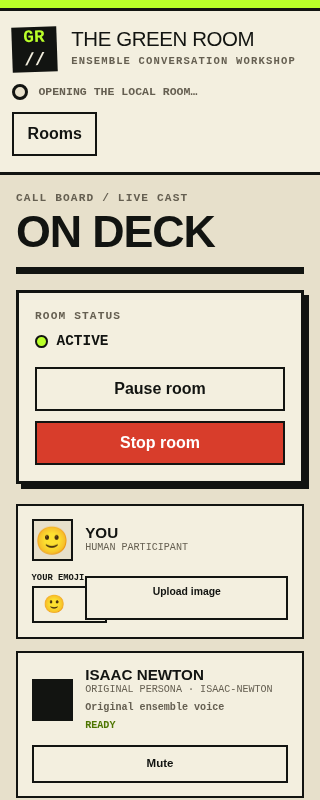
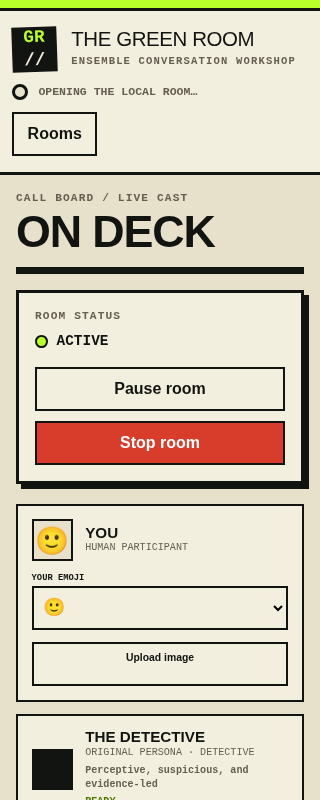
fix: address room history gatekeepers

Changed region(s): [[0.0312, 0.7188, 0.9688, 1.0], [0.9375, 0.7812, 0.9688, 0.8125], [0.0312, 0.7812, 0.0625, 0.8125]]

diff --git a/test/integration/mobile-layout.test.ts b/test/integration/mobile-layout.test.ts
@@ -1,0 +1,148 @@
+import assert from "node:assert/strict";
+import { spawn } from "node:child_process";
+import { existsSync, mkdtempSync, readFileSync, rmSync } from "node:fs";
+import { createServer as createHttpServer } from "node:http";
+import { createServer } from "node:net";
+import { tmpdir } from "node:os";
+import { join, resolve } from "node:path";
+import { setTimeout as delay } from "node:timers/promises";
+import { test } from "node:test";
+
+interface Rectangle {
+  readonly bottom: number;
+  readonly height: number;
+  readonly left: number;
+  readonly right: number;
+  readonly top: number;
+  readonly width: number;
+}
+
+interface Geometry {
+  readonly viewport: number;
+  readonly member: Rectangle;
+  readonly emoji: Rectangle;
+  readonly select: Rectangle;
+  readonly upload: Rectangle;
+}
+
+const chromium = ["/usr/lib/chromium/chromium", "/usr/bin/chromium", "/usr/bin/chromium-browser", "/usr/bin/google-chrome"]
+  .find((candidate) => existsSync(candidate));
+
+function intersects(left: Rectangle, right: Rectangle): boolean {
+  return left.left < right.right && left.right > right.left && left.top < right.bottom && left.bottom > right.top;
+}
+
+function inside(inner: Rectangle, outer: Rectangle): boolean {
+  return inner.left >= outer.left && inner.right <= outer.right && inner.top >= outer.top && inner.bottom <= outer.bottom;
+}
+
+async function unusedPort(): Promise<number> {
+  const server = createServer();
+  await new Promise<void>((resolveListen) => server.listen(0, "127.0.0.1", resolveListen));
+  const address = server.address();
+  assert.ok(address !== null && typeof address === "object");
+  const port = address.port;
+  await new Promise<void>((resolveClose, reject) => server.close((error) => error ? reject(error) : resolveClose()));
+  return port;
+}
+
+test("rendered human avatar controls are contained and non-overlapping at mobile widths", async (context) => {
+  if (chromium === undefined) {
+    context.skip("Chromium is required for rendered geometry coverage");
+    return;
+  }
+  const directory = mkdtempSync(join(tmpdir(), "green-room-mobile-layout-"));
+  context.after(() => rmSync(directory, { recursive: true, force: true }));
+  const stylesheet = readFileSync(resolve("public/styles.css"));
+  const fixture = `<!doctype html>
+    <html><head><meta charset="utf-8"><meta name="viewport" content="width=device-width,initial-scale=1">
+    <link rel="stylesheet" href="/styles.css"></head><body>
+    <main class="app-shell"><aside class="call-board"><ul class="cast-list">
+      <li class="cast-member" id="member">
+        <span class="character-portrait portrait-roster">🙂</span>
+        <div><strong class="persona-name">You With A Deliberately Long Accessible Name</strong><p class="persona-role">Human participant</p></div>
+        <label class="human-emoji-picker" id="emoji"><span>Your emoji</span><select id="select" aria-label="Choose your emoji"><option>🙂</option></select></label>
+        <label class="button human-avatar-upload" id="upload">Upload image<input type="file" aria-label="Upload avatar"></label>
+      </li>
+    </ul></aside></main></body></html>`;
+  const fixtureServer = createHttpServer((request, response) => {
+    if (request.url === "/styles.css") {
+      response.writeHead(200, { "Content-Type": "text/css" });
+      response.end(stylesheet);
+    } else {
+      response.writeHead(200, { "Content-Type": "text/html" });
+      response.end(fixture);
+    }
+  });
+  await new Promise<void>((resolveListen) => fixtureServer.listen(0, "127.0.0.1", resolveListen));
+  const fixtureAddress = fixtureServer.address();
+  assert.ok(fixtureAddress !== null && typeof fixtureAddress === "object");
+  const fixtureUrl = `http://127.0.0.1:${fixtureAddress.port}/`;
+
+  const port = await unusedPort();
+  const browser = spawn(chromium, [
+    "--headless", "--disable-gpu", "--no-sandbox", `--remote-debugging-port=${port}`,
+    `--user-data-dir=${join(directory, "chromium-profile")}`, "about:blank",
+  ], { stdio: "ignore" });
+
+  let target: { type: string; url: string; webSocketDebuggerUrl: string } | undefined;
+  for (let attempt = 0; attempt < 100 && target === undefined; attempt += 1) {
+    try {
+      const targets = await (await fetch(`http://127.0.0.1:${port}/json/list`)).json() as Array<{ type: string; url: string; webSocketDebuggerUrl: string }>;
+      target = targets.find((candidate) => candidate.type === "page" && candidate.url === "about:blank");
+    } catch { await delay(20); }
+  }
+  assert.ok(target, "Chromium DevTools endpoint did not become ready");
+  const socket = new WebSocket(target.webSocketDebuggerUrl);
+  await new Promise<void>((resolveOpen, reject) => {
+    socket.addEventListener("open", () => resolveOpen(), { once: true });
+    socket.addEventListener("error", () => reject(new Error("Chromium DevTools socket failed")), { once: true });
+  });
+  let commandId = 0;
+  const pending = new Map<number, { resolve(value: unknown): void; reject(error: Error): void }>();
+  socket.addEventListener("message", async (event) => {
+    const payload = typeof event.data === "string" ? event.data :
+      event.data instanceof Blob ? await event.data.text() : Buffer.from(event.data as ArrayBuffer).toString("utf8");
+    const message = JSON.parse(payload) as { id?: number; result?: unknown; error?: { message: string } };
+    if (message.id === undefined) return;
+    const command = pending.get(message.id);
+    if (command === undefined) return;
+    pending.delete(message.id);
+    if (message.error) command.reject(new Error(message.error.message)); else command.resolve(message.result);
+  });
+  const send = (method: string, params: Record<string, unknown> = {}) => new Promise<unknown>((resolveCommand, reject) => {
+    const id = ++commandId;
+    pending.set(id, { resolve: resolveCommand, reject });
+    socket.send(JSON.stringify({ id, method, params }));
+  });
+
+  for (const width of [320, 390]) {
+    await send("Emulation.setDeviceMetricsOverride", { width, height: 800, deviceScaleFactor: 1, mobile: false });
+    await send("Page.navigate", { url: fixtureUrl });
+    let ready = false;
+    for (let attempt = 0; attempt < 100; attempt += 1) {
+      const state = await send("Runtime.evaluate", {
+        expression: `location.href === ${JSON.stringify(fixtureUrl)} && document.readyState === "complete" && document.getElementById("member") !== null`,
+        returnByValue: true,
+      }) as { result: { value: boolean } };
+      if (state.result.value) { ready = true; break; }
+      await delay(10);
+    }
+    assert.equal(ready, true, `mobile fixture did not load at ${width}px`);
+    const evaluated = await send("Runtime.evaluate", {
+      expression: `(() => { const rectangle = (id) => { const {left, right, top, bottom, width, height} = document.getElementById(id).getBoundingClientRect(); return {left, right, top, bottom, width, height}; }; return {viewport: innerWidth, member: rectangle("member"), emoji: rectangle("emoji"), select: rectangle("select"), upload: rectangle("upload")}; })()`,
+      returnByValue: true,
+    }) as { result: { value: Geometry } };
+    const geometry = evaluated.result.value;
+    assert.equal(geometry.viewport, width);
+    assert.equal(intersects(geometry.emoji, geometry.upload), false, `controls overlap at ${width}px`);
+    assert.equal(inside(geometry.emoji, geometry.member), true, `emoji control escapes at ${width}px`);
+    assert.equal(inside(geometry.upload, geometry.member), true, `upload control escapes at ${width}px`);
+    assert.ok(geometry.select.height >= 44, `emoji target is too short at ${width}px`);
+    assert.ok(geometry.upload.height >= 44, `upload target is too short at ${width}px`);
+  }
+  socket.close();
+  browser.kill("SIGTERM");
+  fixtureServer.closeAllConnections();
+  await new Promise<void>((resolveClose, reject) => fixtureServer.close((error) => error ? reject(error) : resolveClose()));
+});

diff --git a/public/app.js b/public/app.js
@@ -772,13 +772,44 @@ async function getJson(path, signal) {
   }));
 }
 
-async function postJson(path, body, csrfToken) {
+async function postJson(path, body, csrfToken, signal) {
   return readJson(await fetch(sameOriginPath(path), {
     method: "POST",
     credentials: "same-origin",
     headers: { Accept: "application/json", "Content-Type": "application/json", "X-CSRF-Token": csrfToken },
     body: JSON.stringify(body),
+    signal,
   }));
+}
+
+export function createRoomSelectionFence({ requestSelection, readCurrentRoom, commitRoom, onBusyChange = () => {} }) {
+  let generation = 0;
+  let activeController = null;
+  return Object.freeze({
+    async select(roomId) {
+      const ownGeneration = ++generation;
+      activeController?.abort();
+      const controller = new AbortController();
+      activeController = controller;
+      onBusyChange(true);
+      try {
+        await requestSelection(roomId, controller.signal);
+        if (ownGeneration !== generation) return false;
+        const authoritativeRoom = await readCurrentRoom(controller.signal);
+        if (ownGeneration !== generation) return false;
+        await commitRoom(authoritativeRoom, controller.signal);
+        return ownGeneration === generation;
+      } catch (error) {
+        if (ownGeneration !== generation || error?.name === "AbortError") return false;
+        throw error;
+      } finally {
+        if (ownGeneration === generation) {
+          activeController = null;
+          onBusyChange(false);
+        }
+      }
+    },
+  });
 }
 
 export function validateRoomDto(value) {
@@ -1098,11 +1129,14 @@ export function startBrowserApp() {
     const rows = roomLibrary.map(roomHistoryRow);
     elements.roomHistoryList.replaceChildren(...rows);
     elements.roomDrawerList.replaceChildren(...roomLibrary.map(roomHistoryRow));
+    for (const button of document.querySelectorAll("[data-room-id]")) {
+      button.disabled = pending.has("room-selection");
+    }
     elements.roomHistoryList.setAttribute("aria-busy", "false");
   }
 
-  async function refreshRoomLibrary() {
-    roomLibrary = validateRoomLibraryDto(await getJson(API_PATHS.rooms)).rooms;
+  async function refreshRoomLibrary(signal) {
+    roomLibrary = validateRoomLibraryDto(await getJson(API_PATHS.rooms, signal)).rooms;
     renderRoomLibrary();
   }
 
@@ -1178,16 +1212,41 @@ export function startBrowserApp() {
     } finally { pending.delete(key); renderControls(); renderBuilder(); }
   }
 
-  async function switchRoom(roomId, trigger) {
-    if (!ROOM_ID.test(roomId) || roomId === room?.sessionId) { elements.roomDrawer.close(); return; }
-    trigger.disabled = true;
-    try {
-      const nextRoom = validateRoomDto(await postJson(API_PATHS.selectRoom(roomId), { requestId: createRequestId("select-room") }, csrfToken));
+  const roomSelectionFence = createRoomSelectionFence({
+    async requestSelection(roomId, signal) {
+      validateRoomDto(await postJson(
+        API_PATHS.selectRoom(roomId),
+        { requestId: createRequestId("select-room") },
+        csrfToken,
+        signal,
+      ));
+    },
+    async readCurrentRoom(signal) {
+      return validateRoomDto(await getJson(API_PATHS.currentRoom, signal));
+    },
+    async commitRoom(nextRoom, signal) {
       lifecycle.replace(createChannel(nextRoom.sessionId));
-      clearSession(); renderRoom(nextRoom); await refreshRoomLibrary(); await lifecycle.startIfActive();
-      elements.roomDrawer.close(); elements.messageText.focus();
+      clearSession();
+      renderRoom(nextRoom);
+      await refreshRoomLibrary(signal);
+      await lifecycle.startIfActive();
+      if (!signal.aborted) {
+        elements.roomDrawer.close();
+        elements.messageText.focus();
+      }
+    },
+    onBusyChange(busy) {
+      if (busy) pending.add("room-selection"); else pending.delete("room-selection");
+      renderControls();
+      renderRoomLibrary();
+    },
+  });
+
+  async function switchRoom(roomId) {
+    if (!ROOM_ID.test(roomId) || roomId === room?.sessionId) { elements.roomDrawer.close(); return; }
+    try {
+      await roomSelectionFence.select(roomId);
     } catch (error) { setActionStatus(userMessage(error), "error"); }
-    finally { trigger.disabled = false; }
   }
 
   function fillSelect(select, values) {
@@ -1486,7 +1545,7 @@ export function startBrowserApp() {
   elements.openRoomDrawer.addEventListener("click", () => { elements.openRoomDrawer.setAttribute("aria-expanded", "true"); elements.roomDrawer.showModal(); });
   elements.closeRoomDrawer.addEventListener("click", () => elements.roomDrawer.close());
   elements.roomDrawer.addEventListener("close", () => { elements.openRoomDrawer.setAttribute("aria-expanded", "false"); elements.openRoomDrawer.focus(); });
-  const chooseRoom = (event) => { const button = event.target.closest("[data-room-id]"); if (button) void switchRoom(button.dataset.roomId, button); };
+  const chooseRoom = (event) => { const button = event.target.closest("[data-room-id]"); if (button && !button.disabled) void switchRoom(button.dataset.roomId); };
   elements.roomHistoryList.addEventListener("click", chooseRoom); elements.roomDrawerList.addEventListener("click", chooseRoom);
   elements.filters.addEventListener("submit", (event) => event.preventDefault());
   elements.filters.addEventListener("input", renderGallery); elements.filters.addEventListener("change", renderGallery);

diff --git a/test/integration/room-library.test.ts b/test/integration/room-library.test.ts
@@ -54,6 +54,56 @@ test("0006 preserves the fixed room id, cast, event order, and transcript", (con
   ]);
 });
 
+test("0006 deterministically backfills every pre-existing room and advances its activity counter", (context) => {
+  const dataDir = temporaryDirectory(context);
+  const oldMigrations = join(dataDir, "old-migrations");
+  cpSync(migrationsDir, oldMigrations, { recursive: true });
+  rmSync(join(oldMigrations, "0006-room-library.sql"));
+  const old = openGreenRoomDatabase({ dataDir, migrationsDir: oldMigrations });
+  old.database.exec(`
+    UPDATE rooms SET status = 'stopped', created_at = '2026-01-01 09:00:00' WHERE id = 'first-playable';
+    INSERT INTO rooms(id, title, status, created_at, next_event_sequence)
+      VALUES ('older-room', 'Older room', 'stopped', '2026-01-01 10:00:00', 2);
+    INSERT INTO rooms(id, title, status, created_at, next_event_sequence)
+      VALUES ('newest-selected-room', 'Newest room', 'active', '2026-01-01 11:00:00', 2);
+    INSERT INTO events(room_id, sequence, event_json, created_at)
+      VALUES ('older-room', 1, '{"type":"legacy-older"}', '2026-01-01 12:00:00');
+    INSERT INTO events(room_id, sequence, event_json, created_at)
+      VALUES ('newest-selected-room', 1, '{"type":"legacy-newest"}', '2026-01-01 13:00:00');
+    UPDATE current_room SET room_id = 'newest-selected-room' WHERE singleton = 1;
+  `);
+  old.close();
+
+  const upgraded = openGreenRoomDatabase({ dataDir, migrationsDir });
+  context.after(() => upgraded.close());
+  assert.deepEqual(listRooms(upgraded.database).map(({ id }) => id), [
+    "newest-selected-room",
+    "older-room",
+    "first-playable",
+  ]);
+  const backfill = upgraded.database.prepare(
+    "SELECT id, activity_order FROM rooms ORDER BY activity_order",
+  ).all().map((row) => ({ ...row }));
+  assert.deepEqual(backfill, [
+    { id: "first-playable", activity_order: 1 },
+    { id: "older-room", activity_order: 2 },
+    { id: "newest-selected-room", activity_order: 3 },
+  ]);
+  assert.deepEqual({ ...upgraded.database.prepare(
+    "SELECT next_activity_order FROM room_library_state WHERE singleton = 1",
+  ).get() }, { next_activity_order: 4 });
+
+  appendEvent(upgraded.database, "first-playable", { type: "new-activity" });
+  assert.deepEqual(listRooms(upgraded.database).map(({ id }) => id), [
+    "first-playable",
+    "newest-selected-room",
+    "older-room",
+  ]);
+  assert.deepEqual({ ...upgraded.database.prepare(
+    "SELECT next_activity_order FROM room_library_state WHERE singleton = 1",
+  ).get() }, { next_activity_order: 5 });
+});
+
 test("room library isolates rooms, orders recent activity, and restores selection after restart", (context) => {
   const dataDir = temporaryDirectory(context);
   const store = openGreenRoomDatabase({ dataDir, migrationsDir });

diff --git a/test/integration/first-playable-ui.test.ts b/test/integration/first-playable-ui.test.ts
@@ -89,6 +89,12 @@ interface BrowserContract {
   };
   readonly reasonLabel: (reason: string) => string;
   readonly openStopConfirmation: (dialog: { returnValue: string; showModal(): void }) => void;
+  readonly createRoomSelectionFence: (options: {
+    readonly requestSelection: (roomId: string, signal: AbortSignal) => Promise<unknown>;
+    readonly readCurrentRoom: (signal: AbortSignal) => Promise<{ readonly sessionId: string }>;
+    readonly commitRoom: (room: { readonly sessionId: string }, signal: AbortSignal) => Promise<void>;
+    readonly onBusyChange?: (busy: boolean) => void;
+  }) => { select(roomId: string): Promise<boolean> };
   readonly renderTranscriptEvent: (
     record: EventRecord,
     participantName: (participantId: string) => string,
@@ -258,6 +264,40 @@ test("composer Enter shortcut sends without stealing multiline or composed input
   assert.equal(contract.shouldSubmitComposerKey({ key: "Enter", isComposing: true }), false);
   assert.equal(contract.shouldSubmitComposerKey({ key: "Enter", ctrlKey: true }), false);
   assert.equal(contract.shouldSubmitComposerKey({ key: "a" }), false);
+});
+
+test("room selection fence ignores an older out-of-order response and renders authoritative current room", async () => {
+  const contract = await browserContract();
+  const olderResponse = deferred<void>();
+  const newerResponse = deferred<void>();
+  const currentReads: string[] = [];
+  const rendered: string[] = [];
+  let authoritativeRoom = "room-newer";
+  const fence = contract.createRoomSelectionFence({
+    requestSelection: async (roomId) => {
+      await (roomId === "room-older" ? olderResponse.promise : newerResponse.promise);
+    },
+    readCurrentRoom: async () => {
+      currentReads.push(authoritativeRoom);
+      return { sessionId: authoritativeRoom };
+    },
+    commitRoom: async (room) => { rendered.push(room.sessionId); },
+  });
+
+  const older = fence.select("room-older");
+  const newer = fence.select("room-newer");
+  newerResponse.resolve();
+  assert.equal(await newer, true);
+  olderResponse.resolve();
+  assert.equal(await older, false);
+  assert.deepEqual(currentReads, ["room-newer"]);
+  assert.deepEqual(rendered, ["room-newer"]);
+
+  authoritativeRoom = "room-authoritative";
+  const reconciled = fence.select("room-requested");
+  newerResponse.resolve();
+  assert.equal(await reconciled, true);
+  assert.deepEqual(rendered, ["room-newer", "room-authoritative"]);
 });
 
 test("first playable UI reconnect catches up before resubscribing and suppresses duplicate events", async () => {

diff --git a/public/styles.css b/public/styles.css
@@ -265,6 +265,10 @@ dialog::backdrop { background: rgb(18 20 17 / 72%); }
   .pacing-note { align-self: flex-start; }
   .cast-member { grid-template-columns: 2.6rem minmax(0, 1fr); }
   .portrait-roster { width: 2.6rem; height: 2.6rem; }
+  .cast-member > .human-emoji-picker,
+  .cast-member > .human-avatar-upload,
+  .cast-member > .human-avatar-remove { grid-column: 1 / -1; min-width: 0; width: 100%; }
+  .human-emoji-picker select { width: 100%; min-width: 0; min-height: 2.75rem; }
   .mute-toggle { grid-column: 1 / -1; width: 100%; }
   .transcript-item { grid-template-columns: 3.3rem minmax(0, 1fr); }
   .event-sequence { padding-inline: .5rem; }
